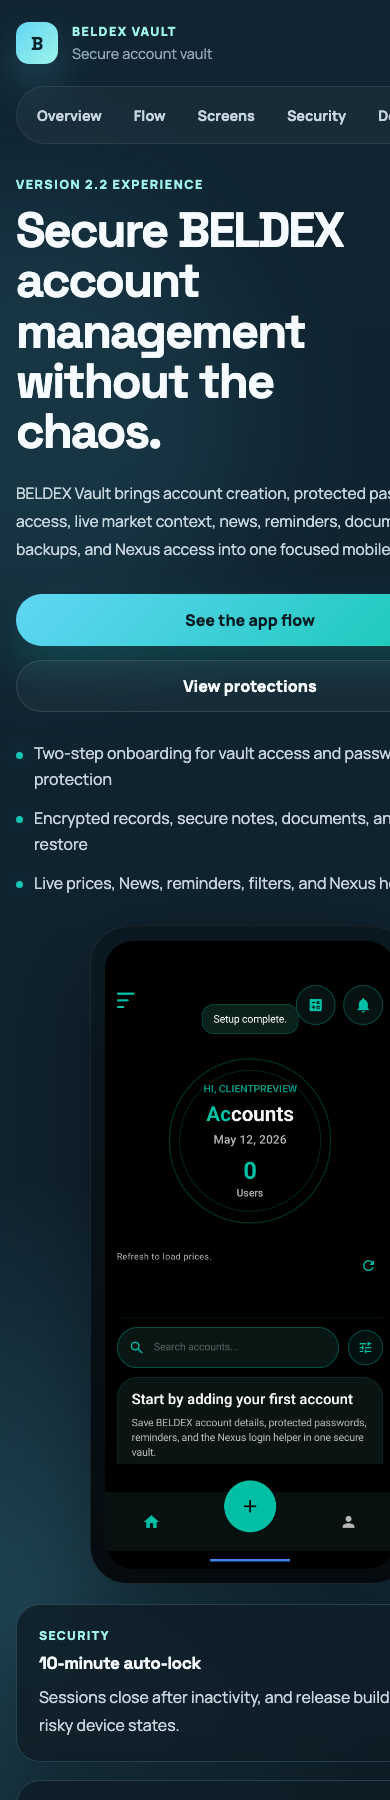
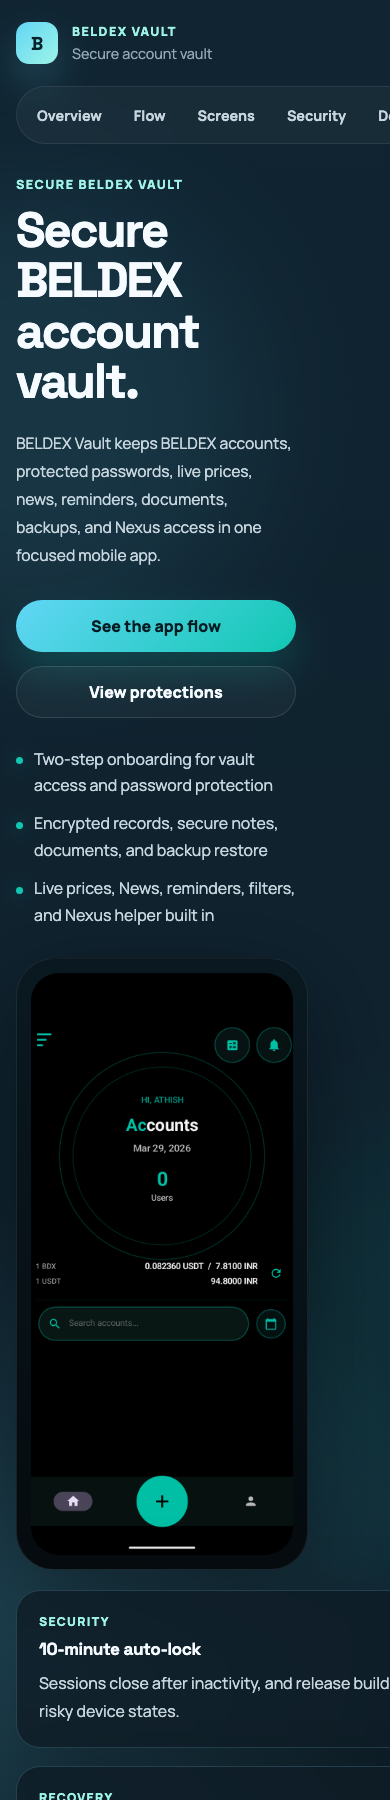
Polish public BELDEX Vault site screenshots and copy

diff --git a/index.html b/index.html
@@ -41,11 +41,11 @@
   <main id="top">
     <section class="hero section">
       <div class="hero-copy reveal">
-        <p class="eyebrow">Version 2.2 experience</p>
-        <h1>Secure BELDEX account management without the chaos.</h1>
+        <p class="eyebrow">Secure BELDEX vault</p>
+        <h1>Secure BELDEX account vault.</h1>
         <p class="hero-text">
-          BELDEX Vault brings account creation, protected password access, live market context,
-          news, reminders, documents, backups, and Nexus access into one focused mobile workflow.
+          BELDEX Vault keeps BELDEX accounts, protected passwords, live prices, news, reminders,
+          documents, backups, and Nexus access in one focused mobile app.
         </p>
         <div class="hero-actions">
           <a class="button button-primary" href="#journey">See the app flow</a>
@@ -60,7 +60,7 @@
 
       <div class="hero-visual reveal" aria-label="BELDEX Vault home preview">
         <div class="device device-tall floating-card">
-          <img src="./assets/screenshots/v2.2-emulator/pixel4a-home-after-setup-latest.png" alt="Latest BELDEX Vault home screen from Pixel 4a emulator showing live prices, search, filters, and first-account guidance">
+          <img src="./assets/screenshots/v2.2-emulator/pixel4a-home-live-prices-latest.png" alt="BELDEX Vault home screen showing live BDX and USDT price values, search, filters, and account actions">
         </div>
         <div class="metric-panel">
           <article class="metric-card">
@@ -71,7 +71,7 @@
           <article class="metric-card">
             <span class="metric-label">Recovery</span>
             <strong>Encrypted backups</strong>
-            <p>Export and restore vault data using a protected `.beldexvault` file.</p>
+            <p>Export and restore vault data using a protected <code>.beldexvault</code> file.</p>
           </article>
           <article class="metric-card metric-card-wide">
             <span class="metric-label">Daily use</span>
@@ -118,7 +118,7 @@
       </div>
       <div class="utility-showcase">
         <figure class="gallery-card utility-shot reveal">
-          <img src="./assets/screenshots/v2.2-emulator/pixel4a-news-latest.png" alt="Latest BELDEX Vault News screen with source filters and official Beldex Blog cards">
+          <img src="./assets/screenshots/v2.2-emulator/pixel4a-news-latest.png" alt="BELDEX Vault News screen with source filters and official Beldex Blog cards">
           <figcaption>News screen with official updates and source-aware fallback messaging</figcaption>
         </figure>
         <div class="utility-copy">
@@ -195,55 +195,59 @@
     <section class="section" id="screens">
       <div class="section-heading reveal">
         <p class="eyebrow">Screens</p>
-        <h2>Latest v2.2 emulator screens across onboarding, Home, News, tools, backup, and tablet layout.</h2>
+        <h2>Explore the key screens across setup, Home, News, tools, backup, Nexus, and tablet layouts.</h2>
       </div>
       <div class="gallery-grid">
         <figure class="gallery-card reveal">
-          <img src="./assets/screenshots/v2.2-emulator/pixel4a-emu-screenshot.png" alt="Latest Pixel 4a emulator vault access setup page">
+          <img src="./assets/screenshots/v2.2-emulator/pixel4a-emu-screenshot.png" alt="BELDEX Vault access setup page">
           <figcaption>Step 1: vault access</figcaption>
         </figure>
         <figure class="gallery-card reveal">
-          <img src="./assets/screenshots/v2.2-emulator/pixel4a-step2-ready-finish.png" alt="Latest Pixel 4a emulator password protection setup page with PIN confirmation">
+          <img src="./assets/screenshots/v2.2-emulator/pixel4a-step2-ready-finish.png" alt="BELDEX Vault password protection setup page with PIN confirmation">
           <figcaption>Step 2: password protection</figcaption>
         </figure>
         <figure class="gallery-card reveal">
-          <img src="./assets/screenshots/v2.2-emulator/pixel4a-home-after-setup-latest.png" alt="Latest Pixel 4a emulator Home screen with live price values and first-account guidance">
+          <img src="./assets/screenshots/v2.2-emulator/pixel4a-home-live-prices-latest.png" alt="BELDEX Vault Home screen with live BDX and USDT price values">
           <figcaption>Home with live prices</figcaption>
         </figure>
         <figure class="gallery-card reveal">
-          <img src="./assets/screenshots/v2.2-emulator/pixel4a-news-latest.png" alt="Latest Pixel 4a emulator News page with All, Blog, X, and Coindar filters">
+          <img src="./assets/screenshots/v2.2-emulator/pixel4a-news-latest.png" alt="BELDEX Vault News page with All, Blog, X, and Coindar filters">
           <figcaption>News with source filters</figcaption>
         </figure>
         <figure class="gallery-card reveal">
-          <img src="./assets/screenshots/v2.2-emulator/pixel4a-add-account-latest.png" alt="Latest Pixel 4a emulator Add account form">
+          <img src="./assets/screenshots/v2.2-emulator/pixel4a-add-account-latest.png" alt="BELDEX Vault Add account form">
           <figcaption>Add account</figcaption>
         </figure>
         <figure class="gallery-card reveal">
-          <img src="./assets/screenshots/v2.2-emulator/pixel4a-documents-form-latest.png" alt="Latest Pixel 4a emulator account form showing secure notes and documents upload">
+          <img src="./assets/screenshots/v2.2-emulator/pixel4a-documents-form-latest.png" alt="BELDEX Vault account form showing secure notes and documents upload">
           <figcaption>Secure notes and documents</figcaption>
         </figure>
         <figure class="gallery-card reveal">
-          <img src="./assets/screenshots/v2.2-emulator/pixel4a-filter-sheet-latest.png" alt="Latest Pixel 4a emulator filter sheet with registration date and coin range slider">
+          <img src="./assets/screenshots/v2.2-emulator/pixel4a-filter-sheet-latest.png" alt="BELDEX Vault filter sheet with registration date and coin range slider">
           <figcaption>Date and coin range filters</figcaption>
         </figure>
         <figure class="gallery-card reveal">
-          <img src="./assets/screenshots/v2.2-emulator/pixel4a-security-latest.png" alt="Latest Pixel 4a emulator Security sheet with password method and backup option">
+          <img src="./assets/screenshots/v2.2-emulator/pixel4a-security-latest.png" alt="BELDEX Vault Security sheet with password method and backup option">
           <figcaption>Security settings</figcaption>
         </figure>
         <figure class="gallery-card reveal">
-          <img src="./assets/screenshots/v2.2-emulator/pixel4a-backup-restore-latest.png" alt="Latest Pixel 4a emulator Backup and restore sheet">
+          <img src="./assets/screenshots/v2.2-emulator/pixel4a-backup-restore-latest.png" alt="BELDEX Vault Backup and restore sheet">
           <figcaption>Encrypted backup and restore</figcaption>
         </figure>
         <figure class="gallery-card reveal">
-          <img src="./assets/screenshots/v2.2-emulator/pixel4a-currency-converter-latest.png" alt="Latest Pixel 4a emulator currency converter overlay">
+          <img src="./assets/screenshots/v2.2-emulator/pixel4a-currency-converter-latest.png" alt="BELDEX Vault currency converter overlay">
           <figcaption>Currency converter</figcaption>
         </figure>
         <figure class="gallery-card reveal">
-          <img src="./assets/screenshots/v2.2-emulator/pixel4a-reminders-latest.png" alt="Latest Pixel 4a emulator reminders sheet">
+          <img src="./assets/screenshots/v2.2-emulator/pixel4a-reminders-latest.png" alt="BELDEX Vault reminders sheet">
           <figcaption>Reminders</figcaption>
         </figure>
+        <figure class="gallery-card gallery-card-wide browser-shot reveal">
+          <img src="./assets/screenshots/v2.2-emulator/nexus-login-browser-latest.png" alt="Nexus sign-in page opened from BELDEX Vault fallback flow">
+          <figcaption>Nexus opens after verification with browser fallback support</figcaption>
+        </figure>
         <figure class="gallery-card gallery-card-wide reveal">
-          <img src="./assets/screenshots/v2.2-emulator/pixeltablet-app-latest.png" alt="Latest Pixel Tablet emulator onboarding layout for BELDEX Vault">
+          <img src="./assets/screenshots/v2.2-emulator/pixeltablet-app-latest.png" alt="BELDEX Vault tablet onboarding layout">
           <figcaption>Tablet onboarding layout</figcaption>
         </figure>
       </div>
@@ -268,7 +272,7 @@
         <article class="security-card reveal">
           <span class="security-icon">03</span>
           <h3>Encrypted backups</h3>
-          <p>Exported `.beldexvault` files are encrypted and require a stronger backup password before restore.</p>
+          <p>Exported <code>.beldexvault</code> files are encrypted and require a stronger backup password before restore.</p>
         </article>
         <article class="security-card reveal">
           <span class="security-icon">04</span>
@@ -290,8 +294,8 @@
 
     <section class="section capability-section">
       <div class="section-heading reveal">
-        <p class="eyebrow">Feature coverage</p>
-        <h2>Every major v2.2 workflow is represented clearly for client review.</h2>
+        <p class="eyebrow">Built-in capabilities</p>
+        <h2>Everything BELDEX account owners need is organized into clear, secure daily workflows.</h2>
       </div>
       <div class="capability-grid">
         <article class="capability-card reveal">
@@ -337,11 +341,11 @@
         </details>
         <details class="detail-card reveal">
           <summary>How Nexus access works</summary>
-          <p>The app verifies first, copies a short `A/c` and `Pwd` payload, opens Nexus in the app, and offers Chrome fallback for manual paste when needed.</p>
+          <p>The app verifies first, copies a short <code>A/c</code> and <code>Pwd</code> payload, opens Nexus in the app, and offers Chrome fallback for manual paste when needed.</p>
         </details>
         <details class="detail-card reveal">
           <summary>How backup and restore works</summary>
-          <p>Users export an encrypted `.beldexvault` backup and restore it later with the backup password. Restore requires explicit confirmation before replacing data.</p>
+          <p>Users export an encrypted <code>.beldexvault</code> backup and restore it later with the backup password. Restore requires explicit confirmation before replacing data.</p>
         </details>
         <details class="detail-card reveal">
           <summary>How errors are handled</summary>

diff --git a/styles.css b/styles.css
@@ -39,6 +39,16 @@ body {
   overflow-x: hidden;
 }
 
+code {
+  padding: 0.08em 0.34em;
+  border: 1px solid rgba(124, 231, 219, 0.18);
+  border-radius: 0.45em;
+  color: var(--accent-3);
+  background: rgba(18, 199, 178, 0.08);
+  font-family: "Space Grotesk", monospace;
+  font-size: 0.94em;
+}
+
 img {
   display: block;
   width: 100%;
@@ -85,6 +95,7 @@ button {
 }
 
 .site-header {
+  width: min(100%, var(--container));
   max-width: var(--container);
   margin: 0 auto;
   padding: 28px 24px 8px;
@@ -127,6 +138,8 @@ button {
 }
 
 .header-nav {
+  min-width: 0;
+  max-width: 100%;
   display: flex;
   gap: 8px;
   flex-wrap: wrap;
@@ -156,6 +169,7 @@ button {
 }
 
 .section {
+  width: min(100%, var(--container));
   max-width: var(--container);
   margin: 0 auto;
   padding: 58px 24px;
@@ -496,6 +510,12 @@ button {
   object-fit: contain;
 }
 
+.browser-shot img {
+  background: #f6fbff;
+  object-fit: cover;
+  object-position: top center;
+}
+
 .gallery-card figcaption {
   padding: 16px 18px 18px;
   color: var(--text-soft);
@@ -597,6 +617,7 @@ button {
 }
 
 .site-footer {
+  width: min(100%, var(--container));
   max-width: var(--container);
   margin: 0 auto;
   padding: 0 24px 42px;
@@ -698,6 +719,12 @@ button {
     overflow-wrap: anywhere;
   }
 
+  .hero-copy {
+    width: min(100%, calc(100vw - 40px));
+    max-width: calc(100vw - 40px);
+    overflow: visible;
+  }
+
   .hero-points li {
     overflow-wrap: anywhere;
   }
@@ -732,6 +759,10 @@ button {
 
   .gallery-card-wide img {
     aspect-ratio: 10 / 16;
+  }
+
+  .browser-shot img {
+    aspect-ratio: 16 / 10;
   }
 
   .journey-shell {
@@ -792,6 +823,21 @@ button {
 
   .section-heading h2 {
     font-size: 1.85rem;
+  }
+
+  .hero-copy,
+  .hero-text,
+  .hero-points,
+  .hero-points li {
+    max-width: min(280px, calc(100vw - 72px));
+  }
+
+  .hero-visual {
+    justify-items: start;
+  }
+
+  .device-tall {
+    width: min(292px, calc(100vw - 56px));
   }
 
   .journey-step {

diff --git a/app.js b/app.js
@@ -10,7 +10,7 @@ const journeyData = [
       "Keyboard-safe layout for compact phones",
     ],
     image: "./assets/screenshots/v2.2-emulator/pixel4a-emu-screenshot.png",
-    alt: "Latest emulator vault access setup screen",
+    alt: "BELDEX Vault access setup screen",
   },
   {
     label: "Step 2",
@@ -23,7 +23,7 @@ const journeyData = [
       "Clear messages for unavailable biometric paths",
     ],
     image: "./assets/screenshots/v2.2-emulator/pixel4a-step2-ready-finish.png",
-    alt: "Latest emulator password protection screen",
+    alt: "BELDEX Vault password protection screen",
   },
   {
     label: "Step 3",
@@ -36,11 +36,11 @@ const journeyData = [
       "Secure notes and encrypted document attachments",
     ],
     image: "./assets/screenshots/v2.2-emulator/pixel4a-add-account-latest.png",
-    alt: "Latest emulator add account screen",
+    alt: "BELDEX Vault add account screen",
   },
   {
     label: "Step 4",
-    title: "Search, filter, and review quickly",
+    title: "Search, filter, and find records quickly",
     text:
       "Home and Contacts keep saved records easy to find as the vault grows, including date and coin amount filtering.",
     bullets: [
@@ -49,33 +49,33 @@ const journeyData = [
       "Completion and reminder status stay visible",
     ],
     image: "./assets/screenshots/v2.2-emulator/pixel4a-filter-sheet-latest.png",
-    alt: "Latest emulator filter sheet with date and coin range",
+    alt: "BELDEX Vault filter sheet with date and coin range",
   },
   {
     label: "Step 5",
     title: "Verify before Nexus access",
     text:
-      "Nexus helper verifies the user first, copies a short credential payload, opens Nexus in-app, and offers Chrome fallback when needed.",
+      "Nexus helper verifies the user first, copies a short credential payload, opens Nexus, and offers browser fallback when manual paste is safer.",
     bullets: [
       "No old copy-helper page",
       "Short clipboard format: A/c and Pwd",
       "Clipboard clears automatically when possible",
     ],
-    image: "./assets/screenshots/v2.2-emulator/pixel4a-documents-form-latest.png",
-    alt: "Latest emulator secure notes and documents screen",
+    image: "./assets/screenshots/v2.2-emulator/nexus-login-browser-latest.png",
+    alt: "Nexus sign-in page opened from BELDEX Vault fallback flow",
   },
   {
     label: "Step 6",
     title: "Back up and restore safely",
     text:
-      "Encrypted `.beldexvault` backup files help users move to a new phone without exposing raw vault data.",
+      "Encrypted .beldexvault backup files help users move to a new phone without exposing raw vault data.",
     bullets: [
       "Stronger backup password rule",
       "Restore confirmation before replacing data",
       "Documents are included through encrypted backup content",
     ],
     image: "./assets/screenshots/v2.2-emulator/pixel4a-backup-restore-latest.png",
-    alt: "Latest emulator backup and restore screen",
+    alt: "BELDEX Vault backup and restore screen",
   },
 ];
 